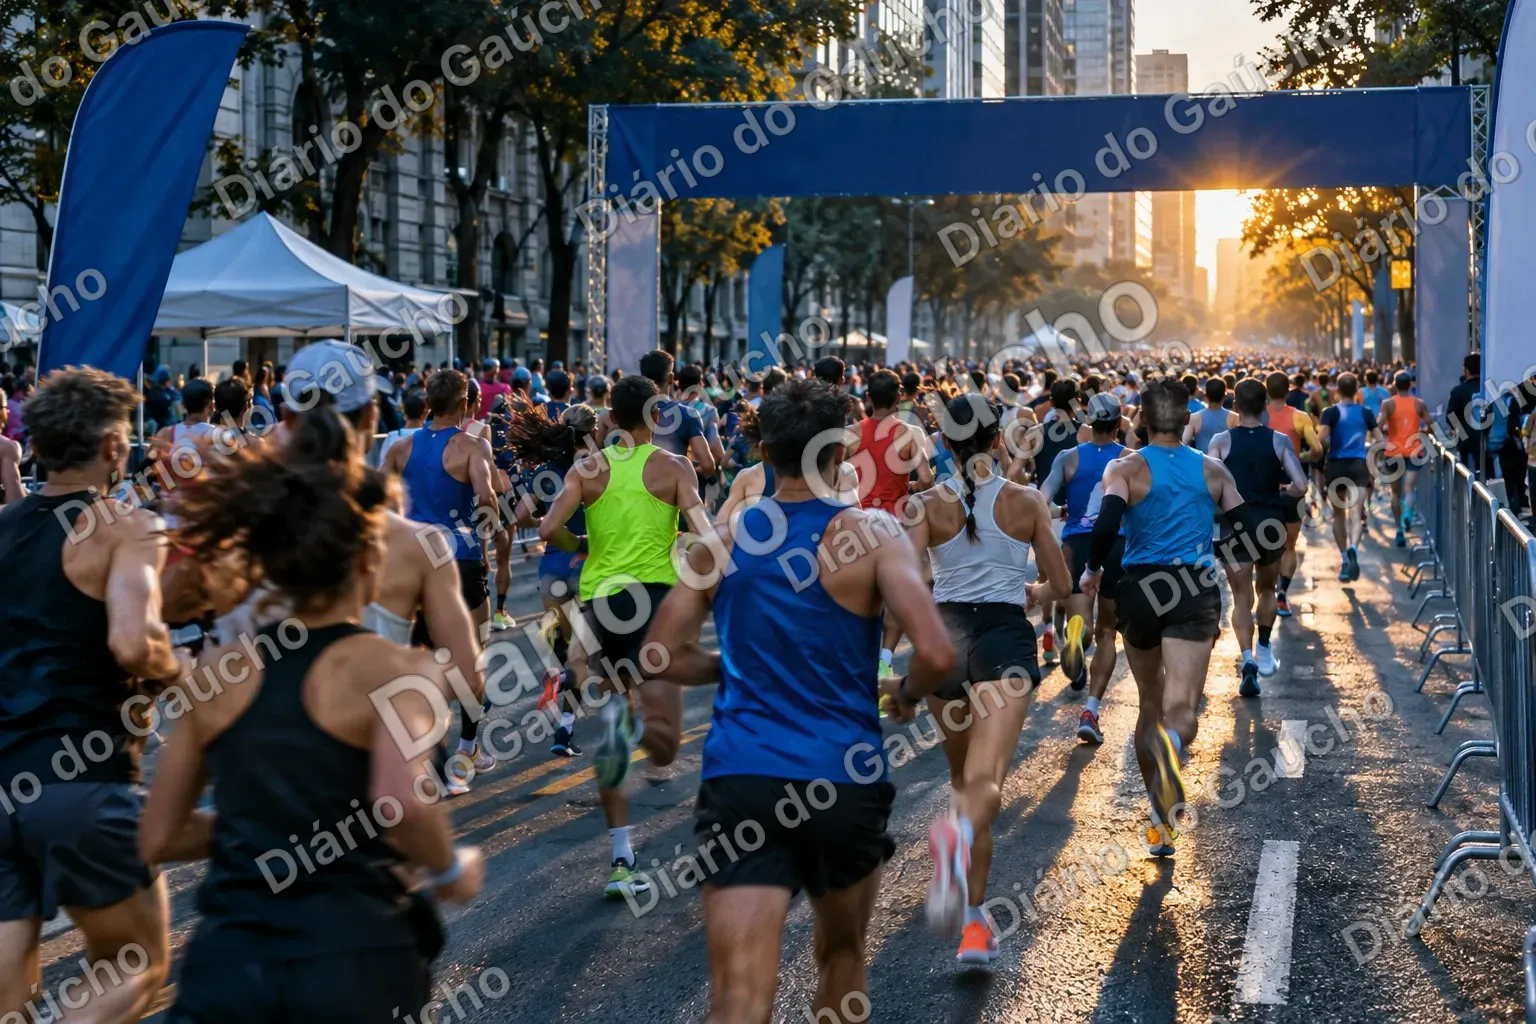
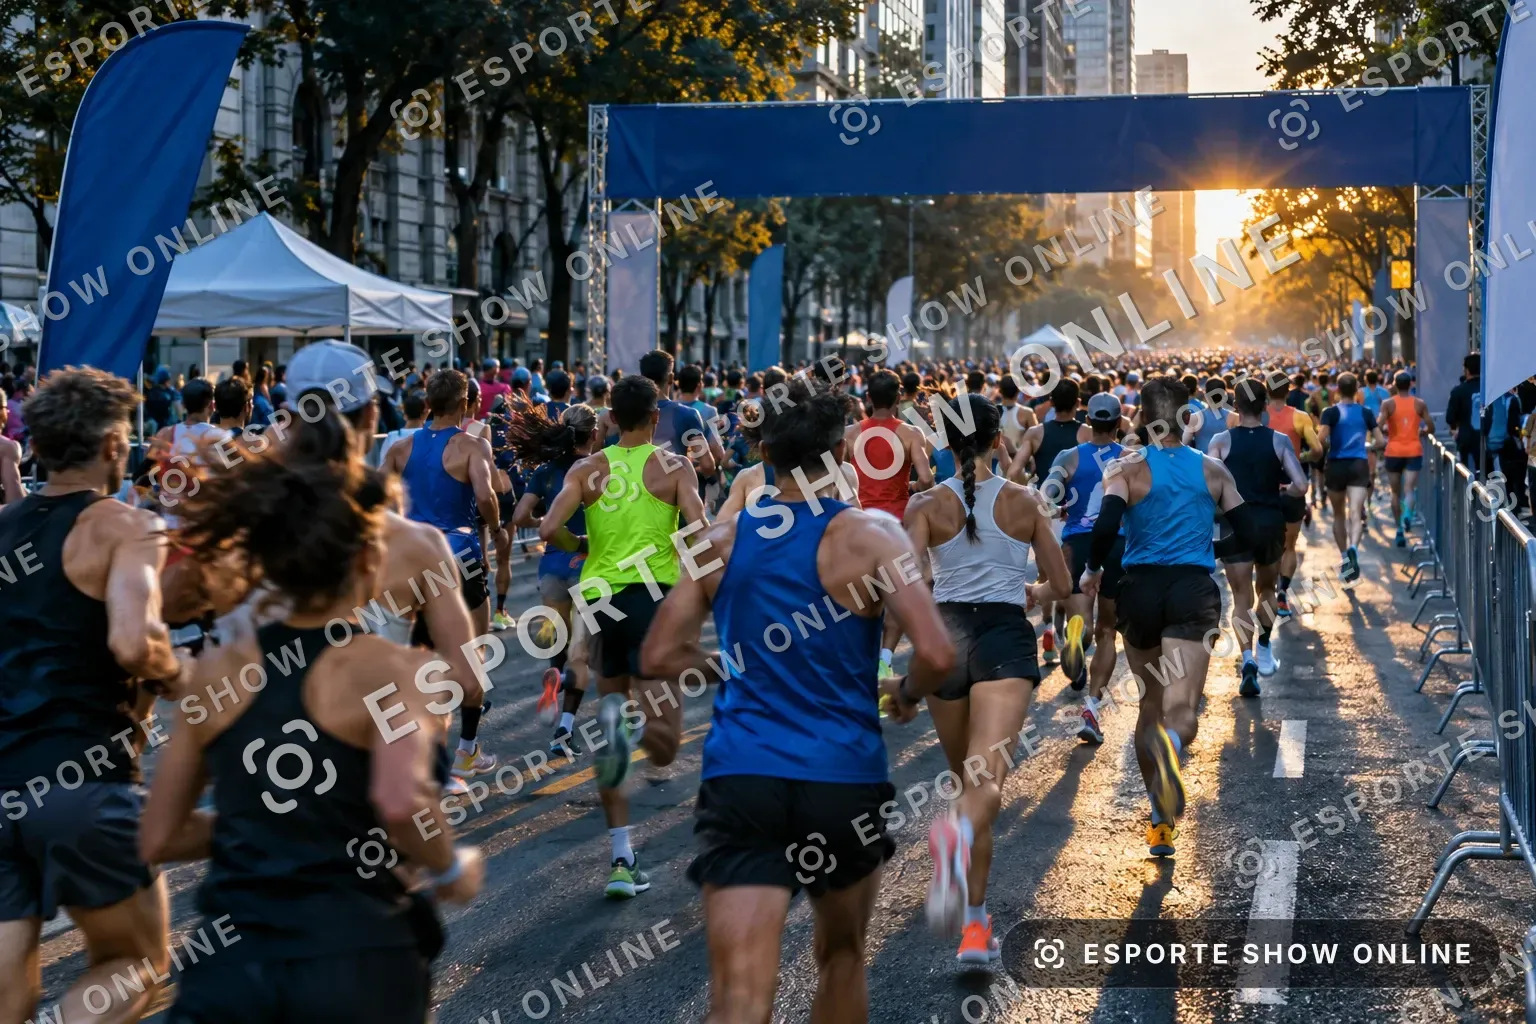
Rename to Esporte Show Online, new watermark, clean site text
- Watermark redesigned: brand icon + letter-spaced "ESPORTE SHOW ONLINE",
  diagonal tiled pattern, large central mark and a corner badge.
- Hero background now uses a blurred, text-free derivative (not usable as a
  photo); sharp watermarked previews stay only in the gallery.
- Removed title/modality captions from gallery cards (price pill kept).
- Site name changed everywhere (menu, footer, tab titles, Pix QR name,
  download filenames, docs).
- Smoke test covers the new hero variant.

Claude-Session: https://claude.ai/code/session_01CL4Jxn6YyA1sVnFnvQiup6

diff --git a/gaucho-netlify/public/css/styles.css b/gaucho-netlify/public/css/styles.css
@@ -1,4 +1,4 @@
-/* Diário do Gaúcho — design system (sem framework, carrega rápido) */
+/* Esporte Show Online — design system (sem framework, carrega rápido) */
 @font-face { font-family: "Inter"; font-weight: 400; font-display: swap; src: url(/fonts/inter-latin-400-normal.woff2) format("woff2"); }
 @font-face { font-family: "Inter"; font-weight: 500; font-display: swap; src: url(/fonts/inter-latin-500-normal.woff2) format("woff2"); }
 @font-face { font-family: "Inter"; font-weight: 600; font-display: swap; src: url(/fonts/inter-latin-600-normal.woff2) format("woff2"); }
@@ -145,12 +145,8 @@ select.field option { background: #151821; }
 .photo .ph { position: relative; aspect-ratio: 4/5; overflow: hidden; background: var(--ink3); }
 .photo img { position: absolute; inset: 0; width: 100%; height: 100%; object-fit: cover; transition: transform .9s var(--ease), opacity .5s; -webkit-user-drag: none; user-select: none; }
 .photo:hover img { transform: scale(1.05); }
-.photo .ph::after { content: ""; position: absolute; inset: 0; background: linear-gradient(180deg,rgba(8,9,13,0) 55%,rgba(8,9,13,.85) 100%); pointer-events: none; }
 .photo .price { position: absolute; z-index: 2; top: 10px; right: 10px; padding: 4px 11px; border-radius: 99px; font-size: 12px; font-weight: 600; letter-spacing: -.01em; }
-.photo .cap { position: absolute; z-index: 2; left: 10px; right: 10px; bottom: 10px; }
-.photo .cap b { display: block; font-size: 14px; font-weight: 600; letter-spacing: -.01em; line-height: 1.2; overflow: hidden; text-overflow: ellipsis; white-space: nowrap; }
-.photo .cap small { display: block; margin-top: 3px; font-size: 11.5px; color: rgba(255,255,255,.7); overflow: hidden; text-overflow: ellipsis; white-space: nowrap; }
-@media (min-width: 768px) { .photo .price { top: 14px; right: 14px; padding: 5px 12px; font-size: 13px; } .photo .cap { left: 16px; right: 16px; bottom: 16px; } .photo .cap b { font-size: 17px; } .photo .cap small { font-size: 13px; } }
+@media (min-width: 768px) { .photo .price { top: 14px; right: 14px; padding: 5px 12px; font-size: 13px; } }
 .skeleton { position: relative; overflow: hidden; background: rgba(255,255,255,.04); }
 .skeleton::after { content: ""; position: absolute; inset: 0; transform: translateX(-100%); background: linear-gradient(90deg,transparent,rgba(255,255,255,.06),transparent); animation: shimmer 1.6s infinite; }
 @keyframes shimmer { to { transform: translateX(100%); } }

diff --git a/gaucho-netlify/public/js/common.js b/gaucho-netlify/public/js/common.js
@@ -77,7 +77,7 @@ export const icons = {
   pix: ic('<path d="m12 2.8 4.3 4.3-2.1 2.1a3 3 0 0 1-4.3 0L7.7 7.1 12 2.8ZM12 21.2l-4.3-4.3 2.1-2.1a3 3 0 0 1 4.3 0l2.1 2.1-4.2 4.3ZM2.8 12l3.1-3.1h1.6l2.4 2.4a1 1 0 0 0 1.4 0M21.2 12l-3.1 3.1h-1.6l-2.4-2.4a1 1 0 0 0-1.4 0"/>', 1.6),
 };
 
-export const LOGO = `<a class="logo" href="/" aria-label="Diário do Gaúcho — início"><i><svg viewBox="0 0 24 24" fill="none" stroke="#08090D" stroke-width="2.2" stroke-linecap="round"><circle cx="12" cy="12" r="4.2"/><path d="M4 8.5V7a3 3 0 0 1 3-3h1.5M20 8.5V7a3 3 0 0 0-3-3h-1.5M4 15.5V17a3 3 0 0 0 3 3h1.5M20 15.5V17a3 3 0 0 1-3 3h-1.5"/></svg></i>Diário do Gaúcho</a>`;
+export const LOGO = `<a class="logo" href="/" aria-label="Esporte Show Online — início"><i><svg viewBox="0 0 24 24" fill="none" stroke="#08090D" stroke-width="2.2" stroke-linecap="round"><circle cx="12" cy="12" r="4.2"/><path d="M4 8.5V7a3 3 0 0 1 3-3h1.5M20 8.5V7a3 3 0 0 0-3-3h-1.5M4 15.5V17a3 3 0 0 0 3 3h1.5M20 15.5V17a3 3 0 0 1-3 3h-1.5"/></svg></i>Esporte Show Online</a>`;
 
 export function mountChrome() {
   const nav = document.createElement("header");
@@ -90,7 +90,7 @@ export function mountChrome() {
 }
 
 export function footer() {
-  return `<footer class="foot"><div class="wrap foot-in"><div>${LOGO}<p>Fotografia esportiva com cuidado editorial. Prévias protegidas por marca d'água; o arquivo original em alta resolução é liberado somente após a confirmação do pagamento.</p></div><div class="foot-links"><div><b>Navegar</b><a href="/#galeria">Galeria</a><a href="/recuperar">Recuperar compra</a></div><div><b>Pagamento</b><span>Pix · BRL</span><span>Liberação segura</span></div></div></div><div class="wrap copy">© ${new Date().getFullYear()} Diário do Gaúcho. Todos os direitos reservados.</div></footer>`;
+  return `<footer class="foot"><div class="wrap foot-in"><div>${LOGO}<p>Fotografia esportiva com cuidado editorial. Prévias protegidas por marca d'água; o arquivo original em alta resolução é liberado somente após a confirmação do pagamento.</p></div><div class="foot-links"><div><b>Navegar</b><a href="/#galeria">Galeria</a><a href="/recuperar">Recuperar compra</a></div><div><b>Pagamento</b><span>Pix · BRL</span><span>Liberação segura</span></div></div></div><div class="wrap copy">© ${new Date().getFullYear()} Esporte Show Online. Todos os direitos reservados.</div></footer>`;
 }
 
 export function reveal(root = document) {

diff --git a/gaucho-netlify/public/js/app.js b/gaucho-netlify/public/js/app.js
@@ -19,7 +19,8 @@ function initHero(photos) {
   const strip = $("#strip");
   const show = photos.slice(0, 5);
   if (!show.length) return;
-  bg.innerHTML = show.map((p, i) => `<img src="${p.previewUrl}" alt="" draggable="false" ${i === 0 ? 'fetchpriority="high"' : ""}>`).join("");
+  // Fundo decorativo borrado e sem texto; as fotos nítidas (com marca d'água) ficam só na galeria.
+  bg.innerHTML = show.map((p, i) => `<img src="${p.heroUrl}" alt="" draggable="false" ${i === 0 ? 'fetchpriority="high"' : ""}>`).join("");
   const imgs = $$("img", bg);
   let cur = 0;
   const set = (i) => {
@@ -64,7 +65,6 @@ function renderGrid() {
       (p, i) => `<li><button class="photo" type="button" data-id="${p.id}" style="--d:${(i % 8) * 0.04}s" aria-label="${esc(p.title)}${p.modalidade ? ` — ${esc(p.modalidade)}` : ""}, ${price(p.priceCents)}">
         <div class="ph skeleton"><img src="${p.thumbUrl}" alt="${esc(p.title)}" loading="lazy" decoding="async" draggable="false" style="opacity:0"></div>
         <span class="price glass">${price(p.priceCents)}</span>
-        <span class="cap"><b>${esc(p.title)}</b>${p.modalidade || p.evento ? `<small>${esc([p.evento, p.modalidade].filter(Boolean).join(" · "))}</small>` : ""}</span>
       </button></li>`,
     )
     .join("");

diff --git a/gaucho-netlify/public/index.html b/gaucho-netlify/public/index.html
@@ -3,10 +3,10 @@
 <head>
 <meta charset="utf-8">
 <meta name="viewport" content="width=device-width, initial-scale=1, viewport-fit=cover">
-<title>Diário do Gaúcho — Fotografia esportiva</title>
+<title>Esporte Show Online — Fotografia esportiva</title>
 <meta name="description" content="Encontre os melhores registros dos seus momentos no esporte.">
 <meta name="theme-color" content="#08090D">
-<meta property="og:title" content="Diário do Gaúcho — Fotografia esportiva">
+<meta property="og:title" content="Esporte Show Online — Fotografia esportiva">
 <meta property="og:description" content="Cada momento merece ser lembrado.">
 <link rel="icon" href="/favicon.svg" type="image/svg+xml">
 <link rel="preload" href="/fonts/inter-latin-600-normal.woff2" as="font" type="font/woff2" crossorigin>

diff --git a/gaucho-netlify/public/recuperar.html b/gaucho-netlify/public/recuperar.html
@@ -3,7 +3,7 @@
 <head>
 <meta charset="utf-8">
 <meta name="viewport" content="width=device-width, initial-scale=1, viewport-fit=cover">
-<title>Recuperar compra — Diário do Gaúcho</title>
+<title>Recuperar compra — Esporte Show Online</title>
 <meta name="robots" content="noindex">
 <meta name="theme-color" content="#08090D">
 <link rel="icon" href="/favicon.svg" type="image/svg+xml">

diff --git a/gaucho-netlify/public/admin.html b/gaucho-netlify/public/admin.html
@@ -3,7 +3,7 @@
 <head>
 <meta charset="utf-8">
 <meta name="viewport" content="width=device-width, initial-scale=1, viewport-fit=cover">
-<title>Painel — Diário do Gaúcho</title>
+<title>Painel — Esporte Show Online</title>
 <meta name="robots" content="noindex, nofollow">
 <meta name="theme-color" content="#08090D">
 <link rel="icon" href="/favicon.svg" type="image/svg+xml">

diff --git a/gaucho-netlify/public/pedido.html b/gaucho-netlify/public/pedido.html
@@ -3,7 +3,7 @@
 <head>
 <meta charset="utf-8">
 <meta name="viewport" content="width=device-width, initial-scale=1, viewport-fit=cover">
-<title>Seu pedido — Diário do Gaúcho</title>
+<title>Seu pedido — Esporte Show Online</title>
 <meta name="robots" content="noindex, nofollow">
 <meta name="referrer" content="no-referrer">
 <meta name="theme-color" content="#08090D">

diff --git a/gaucho-netlify/README.md b/gaucho-netlify/README.md
@@ -1,4 +1,4 @@
-# Diário do Gaúcho — site para Netlify
+# Esporte Show Online — site para Netlify
 
 Site de fotografia esportiva feito para rodar **nativamente na Netlify**: páginas estáticas
 (HTML, CSS e JavaScript puro) + uma Netlify Function para o servidor + Netlify Blobs para guardar
@@ -11,7 +11,7 @@ os dados. **Não precisa de banco de dados nem de outro serviço.**
 - **Pix direto para a conta do Gaúcho:** chave `47992145561` (celular). O dinheiro cai na conta, sem intermediário.
 - **Painel `/admin` com senha:** visão geral, pedidos (confirmar pagamento), fotografias (editar preço,
   nome, modalidade, ocultar, excluir), envio de várias fotos de uma vez e configurações.
-- **Prévia protegida:** a marca d'água "Diário do Gaúcho" é gravada nos pixels, no servidor (não é CSS).
+- **Prévia protegida:** a marca d'água "Esporte Show Online" (ícone + nome, em padrão diagonal, selo central e etiqueta no canto) é gravada nos pixels, no servidor (não é CSS).
   O original nunca é público: só sai por link assinado de 5 minutos depois do pagamento confirmado.
 
 ## Como o pagamento funciona (importante)
@@ -49,7 +49,7 @@ tiver sido trocada pelo painel). O painel bloqueia por 15 minutos depois de 5 te
 | Variável | Para quê | Padrão |
 |---|---|---|
 | `PIX_KEY` | Chave Pix que recebe | `47992145561` |
-| `PIX_NAME` | Nome que aparece no QR Code | `Diario do Gaucho` |
+| `PIX_NAME` | Nome que aparece no QR Code | `Esporte Show Online` |
 | `PIX_CITY` | Cidade no QR Code | `BRASIL` |
 | `ADMIN_PASSWORD` | Senha do painel | (hash embutido) |
 
